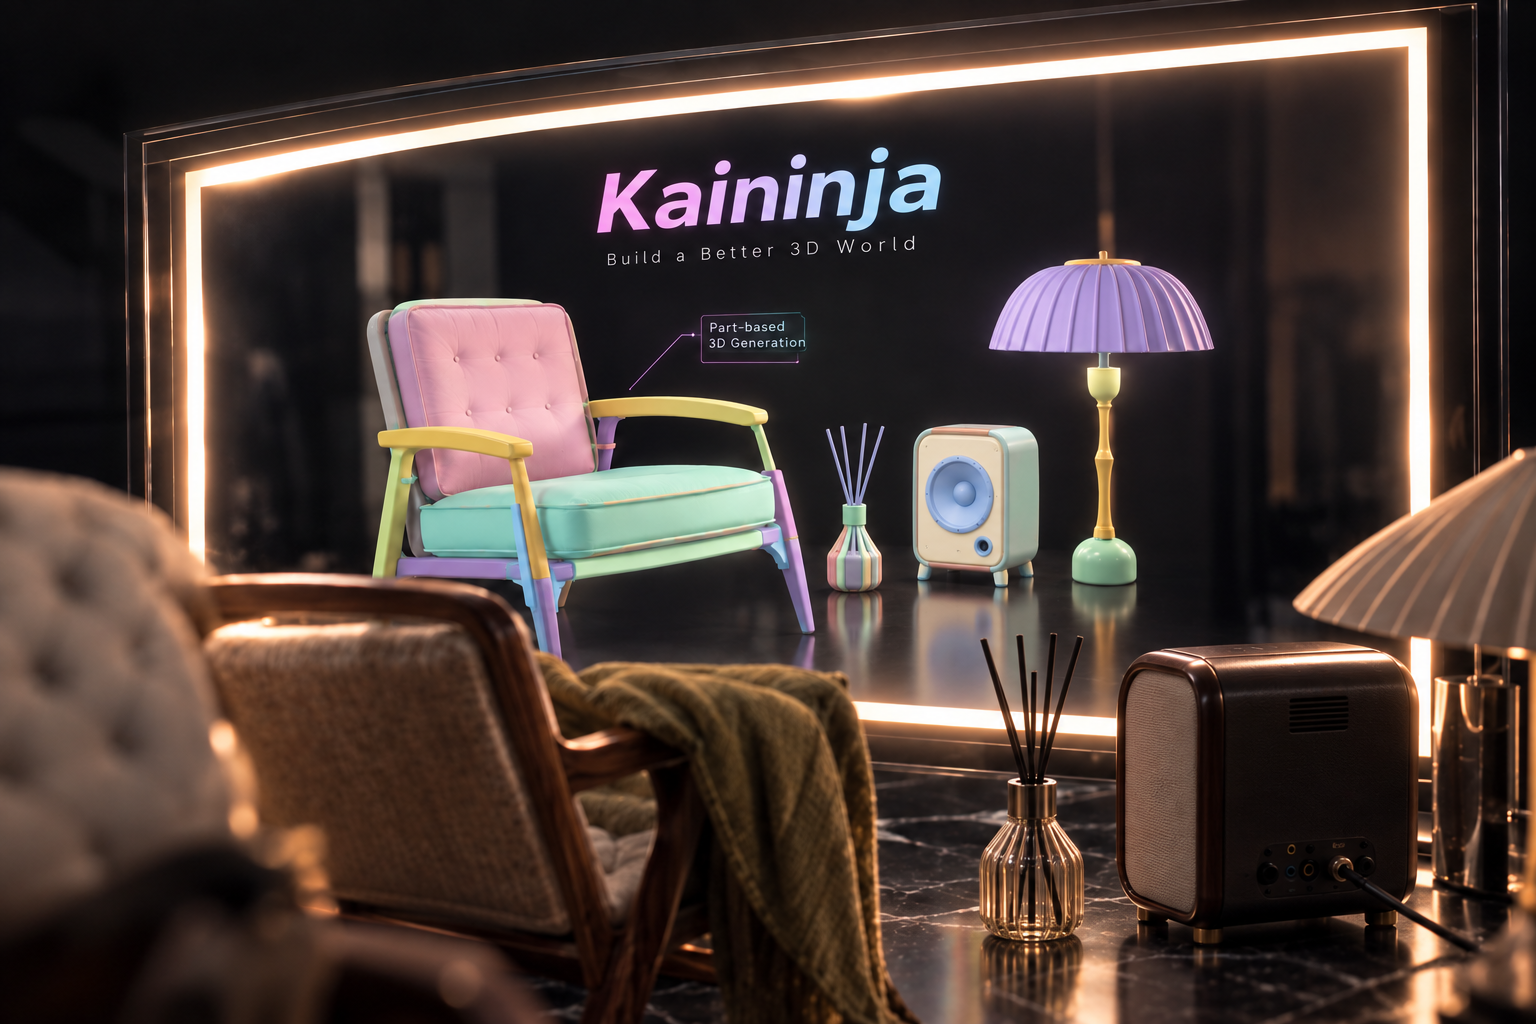
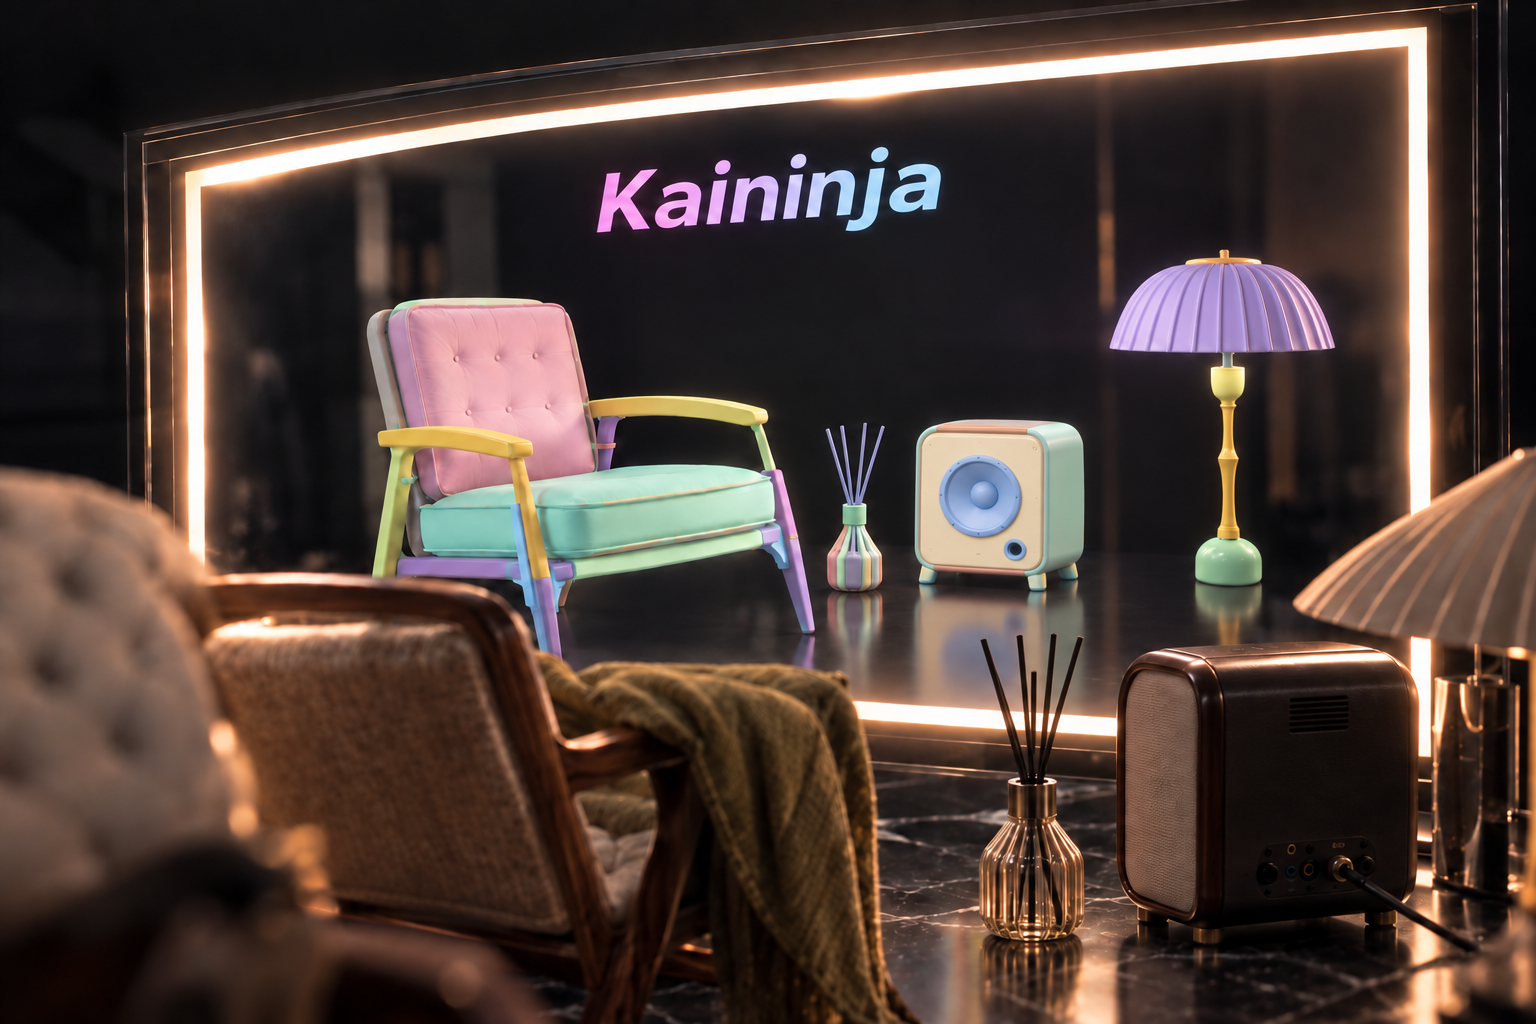
Simplify mirror hero lettering and refine reflected speaker and lamp spacing

diff --git a/index.html b/index.html
@@ -9,7 +9,7 @@
 <meta property="og:description" content="Part-structured image-to-3D generation. Explore curated results, the method and application demonstrations.">
 <meta property="og:url" content="https://parttrellis.github.io/">
 <meta name="twitter:card" content="summary_large_image">
-<meta property="og:image" content="https://parttrellis.github.io/assets/figures/kaininja-mirror-hero.png?v=mirror-corrected-20260912">
+<meta property="og:image" content="https://parttrellis.github.io/assets/figures/kaininja-mirror-hero.png?v=mirror-clean-20260912">
 <link rel="icon" href="assets/figures/alayalab-logo.png">
 <link rel="preconnect" href="https://fonts.googleapis.com">
 <link rel="preconnect" href="https://fonts.gstatic.com" crossorigin>
@@ -590,7 +590,7 @@ window.WS_CONFIG = {
       <a class="btn" href="#bibtex">BibTeX</a>
     </div>
     <p class="paper-summary reveal">KaiNinja extends TRELLIS.2 to generate separate part meshes from one image, using two O-Voxel volumes with no input masks or segmentation network.</p>
-    <figure class="paper-teaser reveal"><img src="assets/figures/kaininja-mirror-hero.png?v=mirror-corrected-20260912" alt="Kaininja concept illustration: an armchair, speaker and reed diffuser reflected as pastel-colored parts in an illuminated mirror" width="1536" height="1024"></figure>
+    <figure class="paper-teaser reveal"><img src="assets/figures/kaininja-mirror-hero.png?v=mirror-clean-20260912" alt="Kaininja concept illustration: an armchair, speaker and reed diffuser reflected as pastel-colored parts in an illuminated mirror" width="1536" height="1024"></figure>
   </div>
 </section>
 <!-- ================= 3D DEMO ================= -->
